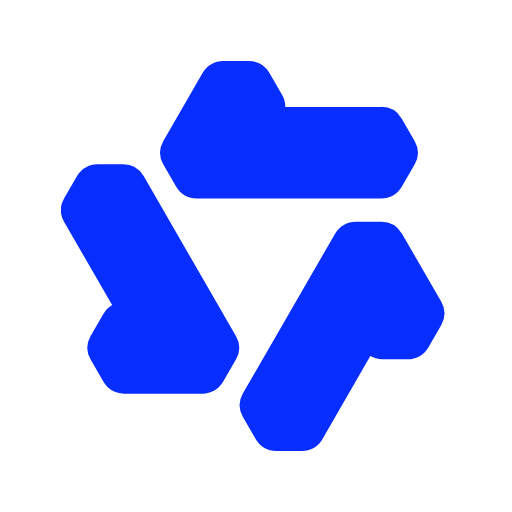
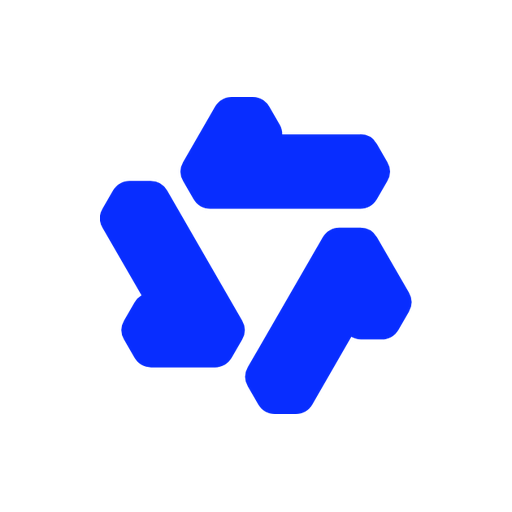
Give headline marks solid tiles and zoom the how-it-works switch.
Bake a white or black background into each platform icon, align the slots with the letter center, and enlarge the browser when TOC and Outline change.

Changed region(s): [[0.0938, 0.0938, 0.875, 0.9062]]

diff --git a/index.html b/index.html
@@ -3534,14 +3534,14 @@
         align-items: center;
         justify-content: center;
         width: 0;
-        height: 0.85em;
+        height: 0.72em;
         margin-inline: 0;
-        transform: translateY(-0.04em);
+        transform: translateY(0.06em);
         transition: width 260ms cubic-bezier(0.22, 0.8, 0.24, 1), margin-inline 260ms cubic-bezier(0.22, 0.8, 0.24, 1);
       }
 
       .platform-slot.is-open {
-        width: 0.85em;
+        width: 0.72em;
         margin-inline: 0.12em;
       }
 
@@ -3585,6 +3585,15 @@
         transition: opacity 240ms ease, filter 240ms ease, transform 240ms ease;
       }
 
+      @keyframes how-enlarge {
+        from { transform: scale(0.86); }
+        to { transform: scale(1); }
+      }
+
+      .how-stage.is-zooming .browser {
+        animation: how-enlarge 720ms cubic-bezier(0.16, 1, 0.3, 1);
+      }
+
       @media (prefers-reduced-motion: reduce) {
         .platform-slot,
         .platform-icon,
@@ -3593,6 +3602,10 @@
         .chat-marker,
         .how-note {
           transition: none;
+        }
+
+        .how-stage.is-zooming .browser {
+          animation: none;
         }
       }
 
@@ -3619,6 +3632,7 @@
       }
 
       .browser {
+        transform-origin: center center;
         --shell-bg: #faf9f7;
         --shell-ink: #1c1917;
         --shell-muted: #7a716b;
@@ -4674,7 +4688,7 @@
         { name: "Kimi", src: "icons/platforms/platform-kimi.png", width: 512 },
         { name: "Qwen", src: "icons/platforms/platform-qianwen.png", width: 512 },
         { name: "Yuanbao", src: "icons/platforms/platform-yuanbao.png", width: 512 },
-        { name: "Diandian AI", src: "icons/platforms/platform-xiaohongshu.png", width: 202 },
+        { name: "Diandian AI", src: "icons/platforms/platform-xiaohongshu.png", width: 512 },
         { name: "Manus", src: "icons/platforms/platform-manus.png", width: 512 },
         { name: "DeepSeek", src: "icons/platforms/platform-deepseek.png", width: 512 }
       ]);
@@ -5381,7 +5395,18 @@
         const howPanels = [...howStage.querySelectorAll("[data-how-panel]")];
         const howSearches = [...howStage.querySelectorAll("[data-how-search]")];
 
-        const setHowMode = (mode) => {
+        const enlargeBrowser = () => {
+          if (window.matchMedia("(prefers-reduced-motion: reduce)").matches) {
+            return;
+          }
+
+          howStage.classList.remove("is-zooming");
+          void howStage.offsetWidth;
+          howStage.classList.add("is-zooming");
+        };
+
+        const setHowMode = (mode, animate = false) => {
+          const changed = howStage.dataset.mode !== mode;
           howStage.dataset.mode = mode;
           howTabs.forEach((tab) => {
             const selected = tab.dataset.howMode === mode;
@@ -5397,6 +5422,10 @@
           howSearches.forEach((label) => {
             label.hidden = label.dataset.howSearch !== mode;
           });
+
+          if (animate && changed) {
+            enlargeBrowser();
+          }
         };
 
         const setHowActive = (id) => {
@@ -5414,7 +5443,7 @@
         howStage.addEventListener("click", (event) => {
           const modeControl = event.target.closest("[data-how-mode]");
           if (modeControl && howStage.contains(modeControl)) {
-            setHowMode(modeControl.dataset.howMode);
+            setHowMode(modeControl.dataset.howMode, true);
             return;
           }
 
@@ -5432,7 +5461,7 @@
           event.preventDefault();
           const current = howTabs.findIndex((tab) => tab.getAttribute("aria-selected") === "true");
           const next = event.key === "ArrowRight" ? (current + 1) % howTabs.length : (current - 1 + howTabs.length) % howTabs.length;
-          setHowMode(howTabs[next].dataset.howMode);
+          setHowMode(howTabs[next].dataset.howMode, true);
           howTabs[next].focus();
         });
 

diff --git a/design-guideline.md b/design-guideline.md
@@ -10,7 +10,8 @@
 - Match the extension conversation cover: paper `#faf9f7` in light and `#191817` in dark, with one top radial of the terracotta accent (`#b85c3a` / `#e69a78`) mixed at 12%. The field stays nearly the paper color. Do not fill it with a deep clay gradient or the peach, pink, and blue theme gradient.
 - Show supported platforms as inline marks inside the headline, one slot per line. The marks cycle; hover pauses the cycle, and reduced motion keeps the first marks still. Keep the full platform names in an accessible list for screen readers, using the same names as `Polaris-for-Web/README.md`. Do not repeat that list as a visible strip under the nav.
 - Keep the sequence as full-bleed hero, How it works, installation panels, support, release notes, then the footer. Platform names stay in the headline marks and in the accessible platform list.
-- How it works is a left–right row: the headline, short explanation, and TOC / Outline switch sit on the left, and a browser-chrome illustration sits on the right. On narrow screens, stack the copy above the window. Inside the window, margin markers sit on a long answer and a Polaris side panel switches between TOC (a jump list) and Outline (the same answer as a nested structure). Use the conversation-cover paper and terracotta for that mock in both themes.
+- How it works is a left–right row: the headline, short explanation, and TOC / Outline switch sit on the left, and a browser-chrome illustration sits on the right. On narrow screens, stack the copy above the window. Switching TOC and Outline enlarges the browser mock from a slightly smaller scale. Inside the window, margin markers sit on a long answer and a Polaris side panel switches between TOC (a jump list) and Outline (the same answer as a nested structure). Use the conversation-cover paper and terracotta for that mock in both themes.
+- Headline platform marks are opaque rounded tiles, white or black, with the mark inset from the tile edge. Size and shift the slot so the tile’s optical center lines up with the letter center.
 
 ## Typography
 

diff --git a/design-qa.md b/design-qa.md
@@ -4,7 +4,8 @@
 
 - Desktop: the first screen is a full-bleed hero with a two-line headline, one inline platform mark per line, one Free trial pill, a text link to capabilities, and a large bottom-anchored video.
 - Mobile: the same hero stacks without horizontal overflow, and the Free trial pill remains the only filled hero action.
-- How it works: copy and the TOC / Outline switch sit on the left, and the browser chrome sits on the right. Narrow screens stack the copy above the window. TOC is a flat jump list; Outline nests the sections inside it. Both themes use the paper and terracotta cover colors. The panel and the two captions switch modes without leaving `#capabilities`.
+- How it works: copy and the TOC / Outline switch sit on the left, and the browser chrome sits on the right. Narrow screens stack the copy above the window. Switching modes enlarges the browser from a smaller scale. TOC is a flat jump list; Outline nests the sections inside it. Both themes use the paper and terracotta cover colors.
+- Headline marks are opaque white or black rounded tiles, inset from the edge, and share the letter centerline.
 
 ## Cross-platform typography
 
